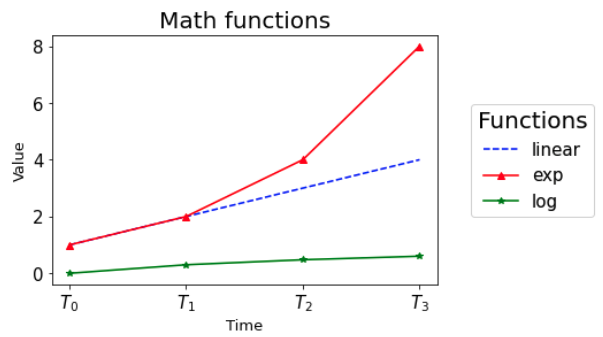
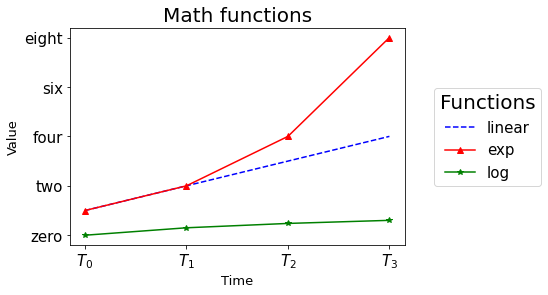
Add y axis customisation for get_line_plot and get_hist_plot methods
Add yticks and yticks_labels parameter to get_line_plot and get_hist_plots
methods in plots.py
Add _set_axis_ticks method in plots.py to avoid code repetition
Add new constants in constants.py
Updated README.md with the new parameters
Updated plots_ex.png to show the new parameters effects

diff --git a/utils_unibs/plots.py b/utils_unibs/plots.py
@@ -343,10 +343,43 @@ def _line_plot(
     return fig, ax
 
 
+def _set_axis_ticks(ax: plt.Axes, ticks: list, labels: list, axis: str):
+    """
+    Set the ticks and labels for a given axis
+
+    Args:
+        ax (plt.Axes): the axis where to set the ticks
+        ticks (list): a list containing the ticks
+        labels (list): a list containing the labels
+        axis (str): the axis where to set the ticks ('y' or 'x')
+
+    Returns:
+        The axis with the ticks and labels set
+    """
+    if axis == C.X:
+        set_axis = ax.set_xticks
+    elif axis == C.Y:
+        set_axis = ax.set_yticks
+    else:
+        return None
+    
+    if labels is None:
+        set_axis(ticks)
+    elif len(labels) != len(ticks):
+        warnings.warn(C.TICKS_WARNING_MSG.format(axis))
+        set_axis(ticks)
+    else:
+        set_axis(ticks, labels)
+
+    return ax
+
+
 def get_line_plot(
     dataset: list,
     xticks: list = [],
     xticks_labels: list = None,
+    yticks: list = [],
+    yticks_labels: list = None,
     labels: list = None,
     xlabel: str = None,
     ylabel: str = None,
@@ -364,6 +397,8 @@ def get_line_plot(
         dataset: a ndarray containing the data to plot divided by rows
         xticks:  a ndarray of integers containing the X axis ticks positions; default is None
         xticks_labels: a list of X axis labels, default is None
+        yticks: a ndarray of integers containing the Y axis ticks positions; default is None
+        yticks_labels: a list of Y axis labels, default is None
         labels: a list containing the labels for the dataset
         xlabel: a string containing the label of the X axis; default is None
         ylabel: a string containing the label of the Y axis; default is None
@@ -383,19 +418,16 @@ def get_line_plot(
     dataset = np.asanyarray(dataset)
     if xticks is None:
         xticks = []
+    if yticks is None:
+        yticks = []
     fig, ax = plt.subplots(facecolor='w')
     if len(dataset.shape) == 2:
         x_axis = range(dataset.shape[1])
         fig, ax = _line_plot(dataset, x_axis, fig, ax, labels, styles, markers, colors)
-        if xticks_labels is None:
-            ax.set_xticks(xticks)
-        elif len(xticks_labels) != len(xticks):
-            warnings.warn('Aaaaaaa')
-            ax.set_xticks(xticks)
-        else:
-            ax.set_xticks(xticks, xticks_labels)
-        # for value in x:
-        #    ax.axvline(value, color='#000', linestyle='dotted', alpha=0.3)
+
+        ax = _set_axis_ticks(ax, xticks, xticks_labels, C.X)
+        ax = _set_axis_ticks(ax, yticks, yticks_labels, C.Y)
+
         ax.set_xlabel(xlabel)
         ax.set_ylabel(ylabel)
         ax.set_title(title)
@@ -419,6 +451,8 @@ def get_hist_plot(
         dataset: list,
         xticks: list = None,
         xticks_labels: list = None,
+        yticks: list = None,
+        yticks_labels: list = None,
         labels: list = None,
         xlabel: str = None,
         ylabel: str = None,
@@ -454,6 +488,8 @@ def get_hist_plot(
     dataset = np.asanyarray(dataset)
     if xticks is None:
         xticks = []
+    if yticks is None:
+        yticks = []
 
     if eps1 < 0:
         eps1 = 0
@@ -489,13 +525,10 @@ def get_hist_plot(
                     width=w - eps2,
                     label=mylabel,
                 )
-        if xticks_labels is None:
-            ax.set_xticks(xticks)
-        elif len(xticks_labels) != len(xticks):
-            warnings.warn('Aaaaaaa')
-            ax.set_xticks(xticks)
-        else:
-            ax.set_xticks(xticks, xticks_labels)
+        
+        ax = _set_axis_ticks(ax, xticks, xticks_labels, C.X)
+        ax = _set_axis_ticks(ax, yticks, yticks_labels, C.Y)
+
         if labels is not None:
             fig.legend(bbox_to_anchor=(0.95, 0.5), loc="center left", title=legend_title)
         ax.set_xlabel(xlabel)

diff --git a/utils_unibs/constants.py b/utils_unibs/constants.py
@@ -42,6 +42,7 @@ class C:
     LOAD_OK_MSG = "{0} loaded from {1}"
 
     WARNING_MSG = "Could not find {0}. Using default {1}"
+    TICKS_WARNING_MSG = 'The number of {0}ticks labels is different from the number of {0}ticks'
 
     LOAD_ERROR_MSG = (
         "Could not load {0} from {1}."
@@ -60,3 +61,6 @@ class C:
     SMALL_ERROR_MSG = "Small size must be between 0 and medium size ({0})"
     MEDIUM_ERROR_MSG = "Medium size must be between small size ({0}) and big size ({1})"
     BIG_ERROR_MSG = "Big size must be greater than medium size ({0})"
+
+    X = 'x'
+    Y = 'y'

diff --git a/README.md b/README.md
@@ -66,6 +66,8 @@ fig, ax = up.get_line_plot(
     dataset=dataset,
     xticks=range(4),
     xticks_labels=["$T_0$", "$T_1$", "$T_2$", "$T_3$"],
+    yticks=range(0,9,2),
+    yticks_labels = ["zero", "two", "four", "six", "eight"],
     labels=labels,
     xlabel="Time",
     ylabel="Value",
